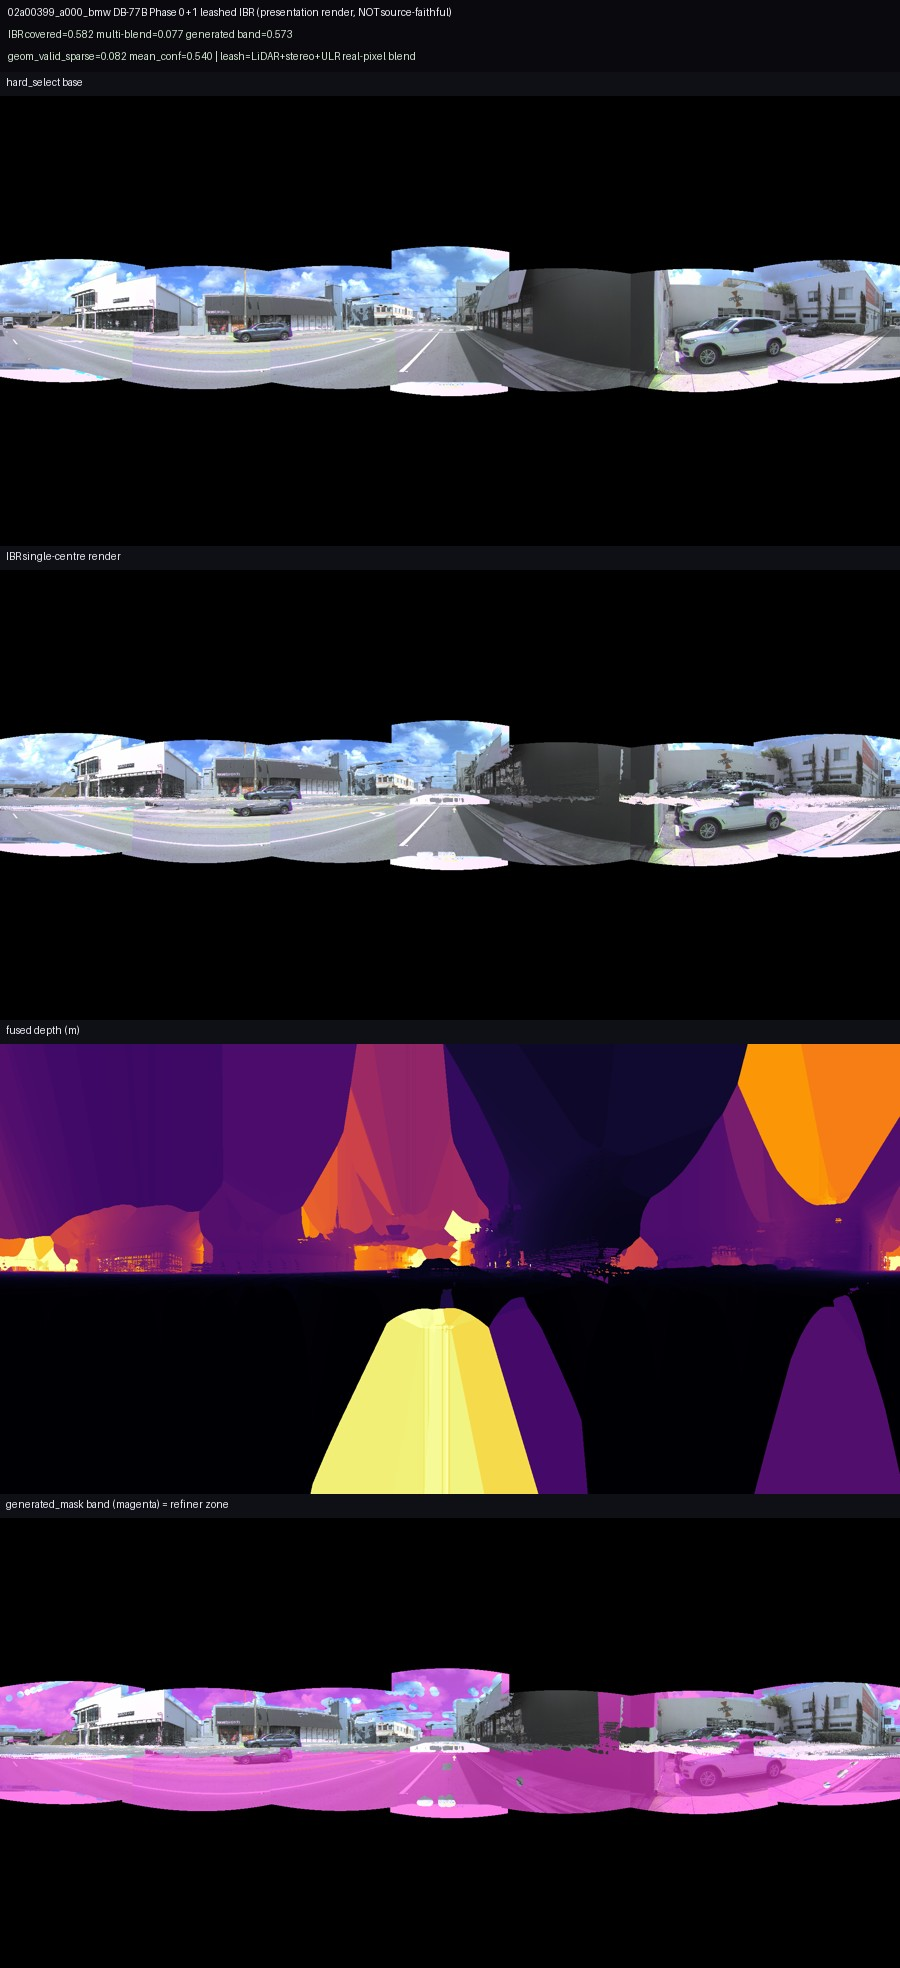
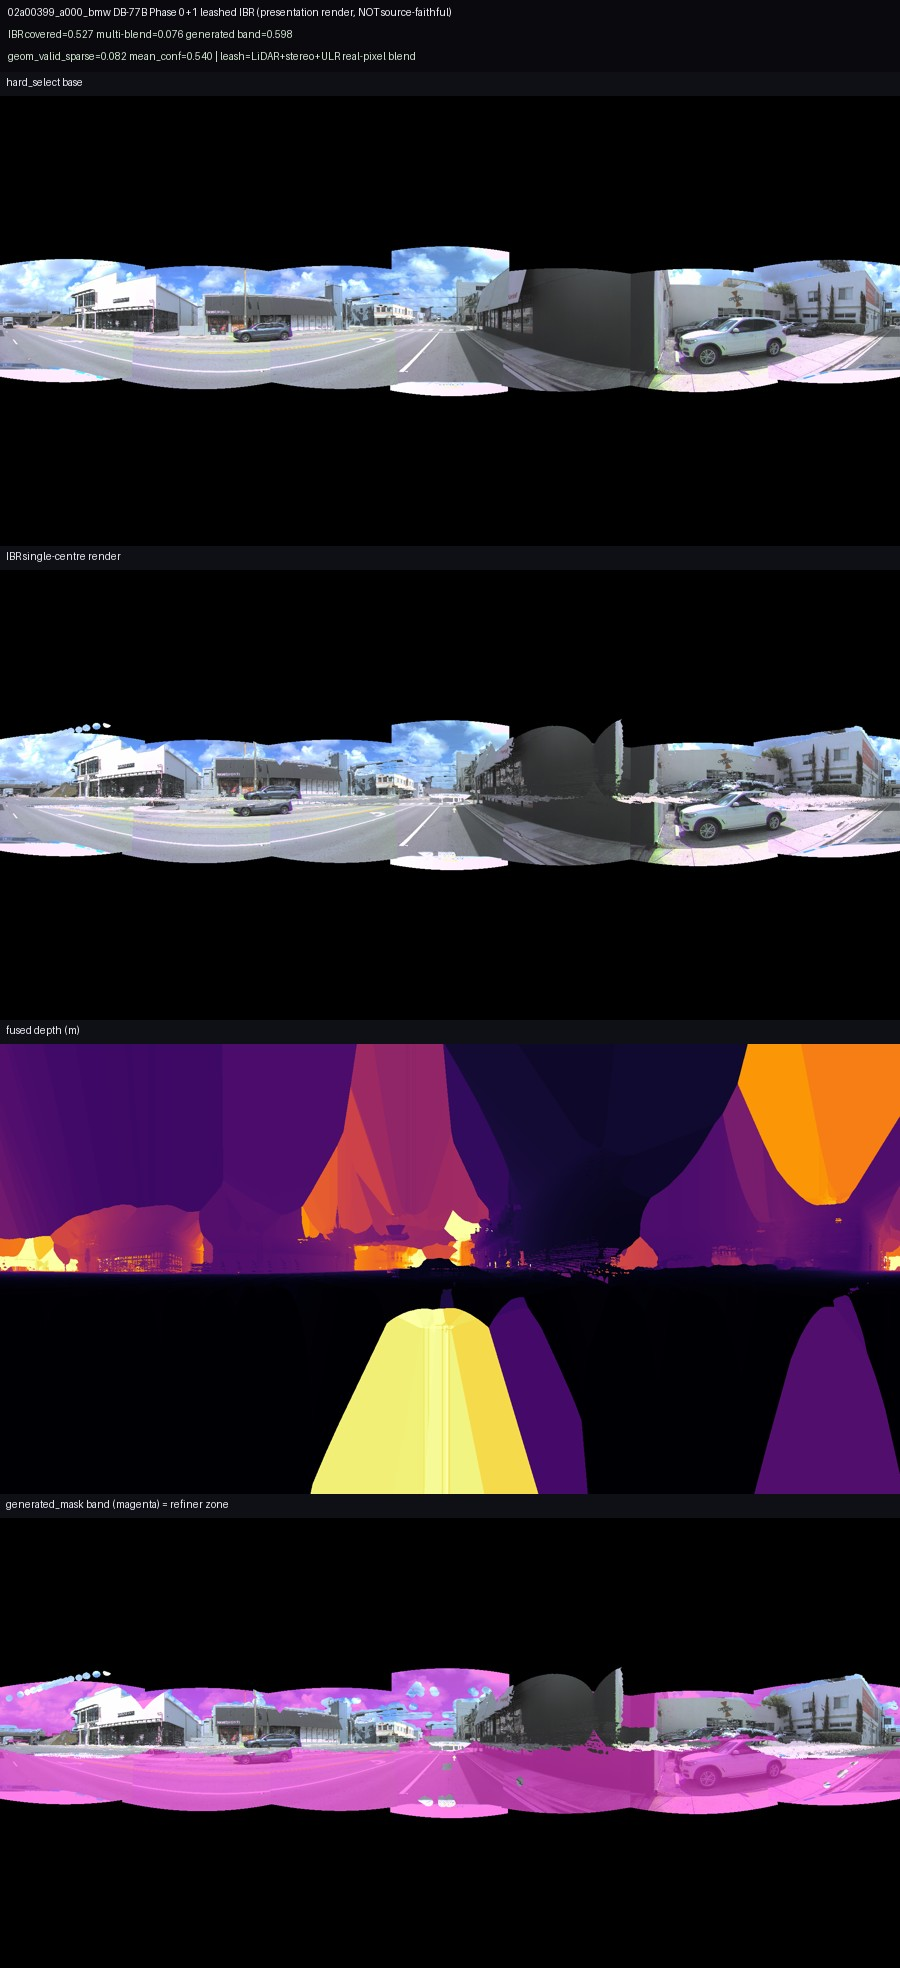
DB-77B A/B: bug-fixed IBR + honest hold-out densify-residual tear metric
A (fix invalid gate metric): re-derive tear attribution via hold-out LiDAR
densification residual (densify from half the LiDAR, |densified - true depth| on
the other half), NOT 4px ERP proximity.
B (3 renderer bugs): (1) per-camera z-buffer occlusion -> drop occluded cams;
(2) depth-correct ULR FOV-falloff weight (replace L1 infinite-radius cos2 feather);
(3) stereo k1-3 gated to avoid double-undistort.

Honest densify residual (real LiDAR vs densified): BMW p50=0.16m/p90=15.4m/
fixable<0.5m=57.7%; clean p50=0.62m/p90=12.8m/fixable=47%. ~half densifies right
(planar), tail (edges) catastrophic (p90 12-15m).

Vision (not sugar-coated): bug-fixed IBR tearing NOT materially reduced -- facades/
curb-tops still tear; only lower-center road clean. The 3 fixes are correct but
can't fix depth that's 15m wrong at edges. Renderer bugs were NOT the main cause.
Option-D (road-only IBR + facade hard_select) stays clean = deliverable floor.

Next per leader's cost line: C1 Difix3D+ zero-shot (A100, await leader eyeball) or
ship Option-D + abstain. CPU only this run, no A100, secret-scan 0.

diff --git a/scripts/phase3/db77b_leashed_renderer.py b/scripts/phase3/db77b_leashed_renderer.py
@@ -57,6 +57,8 @@ FETCH = {
     "bmw_board": ("02a00399_a000_bmw_p01_board.jpg", 70),
     "bmw_pD_board": ("02a00399_a000_bmw_pD_board.jpg", 70),
     "bmw_pD_attr": ("02a00399_a000_bmw_pD_tear_attribution.png", 30),
+    "bmw_pD_densify": ("02a00399_a000_bmw_pD_densify_residual_heat.png", 30),
+    "clean_pD_densify": ("0bae3b5e_a030_clean_far_pD_densify_residual_heat.png", 30),
     "bmw_pD_road": ("02a00399_a000_bmw_pD_road_only_ibr.png", 40),
     "clean_pD_board": ("0bae3b5e_a030_clean_far_pD_board.jpg", 70),
     "bmw_ibr": ("02a00399_a000_bmw_p01_ibr_rgb.png", 40),
@@ -231,7 +233,9 @@ def stereo_depth(log_dir, anchor_ts):
     def cal(n):
         ri = intr[intr.sensor_name == n].iloc[0]; re = extr[extr.sensor_name == n].iloc[0]
         K = np.array([[ri.fx_px, 0, ri.cx_px], [0, ri.fy_px, ri.cy_px], [0, 0, 1]], float)
-        dist = np.array([ri.get("k1", 0), ri.get("k2", 0), 0, 0, ri.get("k3", 0)], float)
+        _k = (float(ri.get("k1", 0)), float(ri.get("k2", 0)), float(ri.get("k3", 0)))
+        # B3: avoid double-undistort — AV2 imagery is delivered rectified; only pass distortion if k's are non-trivial
+        dist = np.array([_k[0], _k[1], 0, 0, _k[2]], float) if max(abs(v) for v in _k) > 0.01 else np.zeros(5, float)
         T = np.eye(4); T[:3, :3] = Rotation.from_quat([re.qx, re.qy, re.qz, re.qw]).as_matrix(); T[:3, 3] = [re.tx_m, re.ty_m, re.tz_m]
         return K, dist, T, int(ri.width_px), int(ri.height_px)
     KL, dL, TL, w, h = cal("stereo_front_left"); KR, dR, TR, _, _ = cal("stereo_front_right")
@@ -272,16 +276,32 @@ def fuse_and_densify(lidar_depth, stereo_depth_map):
 
 
 def ibr_render(Zd, dirs, frame, ring_cams, weights, base):
+    # bug-fixed IBR: (B1) per-camera z-buffer occlusion test — drop a camera for an ERP ray
+    # if a nearer surface occludes it in that camera; (B2) depth-correct ULR weight — FOV-center
+    # falloff on the actual depth-correct projection, NOT the L1 infinite-radius cos2 feather.
     import cv2
-    X = (Zd[..., None] * dirs).astype(np.float64)  # (H,W,3) ego
+    X = (Zd[..., None] * dirs).astype(np.float64)  # (H,W,3) ego surface point per ERP ray
     acc = np.zeros((H, W, 3), np.float32); wsum = np.zeros((H, W), np.float32); viscount = np.zeros((H, W), np.int32)
+    OCC_TOL = 0.5  # m: a ray is occluded if a surface >0.5m nearer projects to the same camera pixel
     for ci, cam in enumerate(ring_cams):
         cal = frame.calibrations[cam]; img = frame.images[cam].astype(np.float32); K = cal.K; Tci = np.linalg.inv(cal.T_ego_cam)
         Xc = np.einsum('ij,hwj->hwi', Tci[:3, :3], X) + Tci[:3, 3]; z = Xc[..., 2]
         px = K[0, 0] * (Xc[..., 0] / np.maximum(z, EPS)) + K[0, 2]; py = K[1, 1] * (Xc[..., 1] / np.maximum(z, EPS)) + K[1, 2]
-        hh, ww = img.shape[:2]; vis = (z > 0.1) & (px >= 0) & (px < ww - 1) & (py >= 0) & (py < hh - 1)
+        hh, ww = img.shape[:2]
+        inb = (z > 0.1) & (px >= 0) & (px < ww - 1) & (py >= 0) & (py < hh - 1)
+        yi = np.clip(py.astype(np.int64), 0, hh - 1); xi = np.clip(px.astype(np.int64), 0, ww - 1)
+        # B1: per-camera z-buffer — nearest surface per camera pixel; ERP ray occluded if it sits behind it
+        zbuf = np.full(hh * ww, np.inf, np.float32)
+        flat = (yi * ww + xi).reshape(-1); zf = z.reshape(-1).astype(np.float32); inf_ = inb.reshape(-1)
+        order = np.argsort(-zf)  # far first -> nearest overwrites on duplicate camera pixels
+        of = flat[order]; oz = zf[order]; oi = inf_[order]
+        zbuf[of[oi]] = oz[oi]
+        nearest = zbuf[(yi * ww + xi)]
+        vis = inb & (z <= nearest + OCC_TOL)
+        # B2: depth-correct ULR weight — radial FOV falloff from the principal point of the actual projection
+        rad = np.hypot((px - K[0, 2]) / (0.5 * ww), (py - K[1, 2]) / (0.5 * hh))
+        wv = (np.clip(1.0 - rad, 0.0, 1.0) ** 2 * vis).astype(np.float32)
         col = cv2.remap(img, px.astype(np.float32), py.astype(np.float32), cv2.INTER_LINEAR, borderMode=cv2.BORDER_CONSTANT)
-        wv = (weights[ci] * vis).astype(np.float32)
         acc += wv[..., None] * col; wsum += wv; viscount += vis.astype(np.int32)
     has = wsum > WMIN; ibr = base.astype(np.float32).copy()
     ibr[has] = (acc[has] / wsum[has][..., None])
@@ -320,22 +340,35 @@ def run_case(case_spec, run_name, workdir):
     highconf = has & (conf >= GEN_THR)
     ibr = np.where(highconf[..., None], ibr_raw, base).astype(np.uint8)
     gen = (~highconf) & valid_any     # generated_mask = IBR not trusted -> refiner zone (Phase 2)
-    # ---- Option-D baseline (road-only IBR + facade hard_select) + tear attribution (leader request) ----
-    Xh = (Zd * dirs[..., 2]).astype(np.float32)                      # ego height of each ray's surface point
+    # ---- Option-D baseline + HONEST tear attribution (A: hold-out LiDAR densification residual) ----
+    Xh = (Zd * dirs[..., 2]).astype(np.float32)
     road_mask = valid_any & has & (conf >= GEN_THR) & (Xh < 0.5)     # near-ground planar surface
     ibr_D = base.copy(); ibr_D[road_mask] = ibr_raw[road_mask]       # IBR only on road; facade/others = hard_select
     gb = 0.299 * base[..., 0] + 0.587 * base[..., 1] + 0.114 * base[..., 2]
     gi = 0.299 * ibr_raw[..., 0] + 0.587 * ibr_raw[..., 1] + 0.114 * ibr_raw[..., 2]
     tear = (np.abs(gi - gb) > 18) & valid_any & (~road_mask)         # IBR changed a non-road region = candidate tear
-    dist = -CONF_SCALE * np.log(np.clip(conf, 1e-6, 1.0))            # px distance to nearest real geometry
-    near_geom = dist < 4.0
-    tear_bad_densify = tear & near_geom                             # geometry EXISTS but densified depth wrong -> 3DGS/surfel-fixable
-    tear_no_geom = tear & (~near_geom)                              # NO geometry near -> needs B to feed geometry
-    attr = overlay(overlay(base, tear_no_geom, (40, 120, 255), 0.7), tear_bad_densify, (255, 40, 40), 0.7)
+    # A (fix the invalid gate metric): densify from HALF the LiDAR, measure |densified - true depth| on the OTHER half.
+    # This measures whether nearest-densification actually recovers the true surface depth — NOT 4px ERP proximity.
+    rfield = np.zeros((H, W), np.float32); densify_resid = {}
+    if len(lidar) > 2000:
+        ev = (np.arange(len(lidar)) % 2 == 0)
+        Zd_tr, _c2, _v2 = fuse_and_densify(scatter_depth(lidar[ev]), sd)
+        tu, tv, td = ego_to_uv(lidar[~ev]); mm = (td > 1.5) & (td < 80)
+        tui = np.clip(np.round(tu[mm]).astype(np.int64), 0, W - 1); tvi = np.clip(np.round(tv[mm]).astype(np.int64), 0, H - 1)
+        resid = np.abs(Zd_tr[tvi, tui] - td[mm].astype(np.float32))
+        densify_resid = {"p50_m": float(np.percentile(resid, 50)), "p90_m": float(np.percentile(resid, 90)),
+                         "fixable_share_lt0p5m": float((resid < 0.5).mean()), "n_test": int(resid.size)}
+        fl = tvi * W + tui; acc_r = np.zeros(H * W, np.float32); cnt_r = np.zeros(H * W, np.float32)
+        np.add.at(acc_r, fl, resid); np.add.at(cnt_r, fl, 1.0); rfield = (acc_r / np.maximum(cnt_r, 1)).reshape(H, W)
+    has_resid = rfield > 0
+    tear_unfixable = tear & (rfield > 0.5)                          # densify residual LARGE -> nearest-densify can't hold the surface (denser geom / abstain)
+    tear_fixable = tear & has_resid & (rfield <= 0.5)              # densify residual SMALL -> a better densifier/renderer can fix it
+    attr = overlay(overlay(base, tear_fixable, (40, 220, 90), 0.7), tear_unfixable, (255, 40, 40), 0.7)
     geomcov = overlay(base, cv2.dilate(geomvalid.astype(np.uint8), np.ones((3, 3), np.uint8)) > 0, (40, 255, 120), 0.6)
     save_rgb(REMOTE_OUT / f"{run_name}_pD_road_only_ibr.png", ibr_D)
     save_rgb(REMOTE_OUT / f"{run_name}_pD_tear_attribution.png", attr)
     save_rgb(REMOTE_OUT / f"{run_name}_pD_geom_coverage.png", geomcov)
+    save_rgb(REMOTE_OUT / f"{run_name}_pD_densify_residual_heat.png", heat(rfield, has_resid))
     # metrics
     co = (viscount >= 2) & valid_any
     metrics = {
@@ -347,8 +380,9 @@ def run_case(case_spec, run_name, workdir):
         "mean_confidence_in_band": float(conf[valid_any].mean()),
         "road_only_ibr_frac_of_band": float(road_mask.sum() / max(valid_any.sum(), 1)),
         "tear_frac_of_band": float(tear.sum() / max(valid_any.sum(), 1)),
-        "tear_bad_densify_share": float(tear_bad_densify.sum() / max(tear.sum(), 1)),
-        "tear_no_geom_share": float(tear_no_geom.sum() / max(tear.sum(), 1)),
+        "densify_residual_m": densify_resid,
+        "tear_fixable_share": float(tear_fixable.sum() / max(tear.sum(), 1)),
+        "tear_unfixable_share": float(tear_unfixable.sum() / max(tear.sum(), 1)),
     }
     save_rgb(REMOTE_OUT / f"{run_name}_p01_ibr_rgb.png", ibr)
     save_rgb(REMOTE_OUT / f"{run_name}_p01_depth_heat.png", heat(Zd, valid_any))
@@ -381,7 +415,7 @@ def run_case(case_spec, run_name, workdir):
     for o in ims: board.paste(o, (0, yo)); yo += o.height
     board.save(REMOTE_OUT / f"{run_name}_p01_board.jpg", quality=90)
     tilesD = [("hard_select base", base), ("OPTION-D: road-only IBR + facade hard_select", ibr_D),
-              ("tear: RED=geometry-exists(densify-fixable) BLUE=no-geometry(needs B)", attr),
+              ("tear: GREEN=densify-fixable(resid<0.5m) RED=unfixable(resid>0.5m)", attr),
               ("real LiDAR/stereo geometry coverage (green)", geomcov)]
     imsD = []
     for t, a in tilesD:
@@ -389,7 +423,7 @@ def run_case(case_spec, run_name, workdir):
         bar = Image.new("RGB", (900, 24), (15, 15, 22)); ImageDraw.Draw(bar).text((6, 4), t, (235, 235, 245), font=f)
         o = Image.new("RGB", (900, 474)); o.paste(bar, (0, 0)); o.paste(im, (0, 24)); imsD.append(o)
     boardD = Image.new("RGB", (900, 474 * 4 + 50), (10, 10, 14)); dd = ImageDraw.Draw(boardD)
-    dd.text((8, 6), f"{run_name} DB-77B Option-D + tear attribution  tear={metrics['tear_frac_of_band']:.3f} bad_densify_share={metrics['tear_bad_densify_share']:.2f} no_geom_share={metrics['tear_no_geom_share']:.2f}", (240, 240, 250), font=f)
+    dd.text((8, 6), f"{run_name} DB-77B bug-fixed IBR + honest tear  tear={metrics['tear_frac_of_band']:.3f} densify_resid_p50={(metrics.get('densify_residual_m') or {}).get('p50_m')} fixable_share={metrics['tear_fixable_share']:.2f}", (240, 240, 250), font=f)
     yo = 50
     for o in imsD: boardD.paste(o, (0, yo)); yo += o.height
     boardD.save(REMOTE_OUT / f"{run_name}_pD_board.jpg", quality=90)

diff --git a/agent/progress.md b/agent/progress.md
@@ -1,5 +1,15 @@
 # Waymo2Panorama Progress
 
+> ### 2026-06-06 (DB-77B A/B done on CPU — bug-fixed IBR + honest tear metric; tearing NOT fixed by the 3 bugs, root cause = densify depth wrong at edges p90 15m; Option-D floor clean)
+> **What ran:** `db77b --phase01` on CPU Colab (secret-scan 0). **A (fix the invalid gate metric):** tear attribution re-derived via **hold-out LiDAR densification residual** (densify from half the LiDAR, measure |densified − true depth| on the other half) — NOT 4px ERP proximity. **B (3 renderer bugs):** ① per-camera z-buffer occlusion (drop occluded cams wv=0); ② depth-correct ULR FOV-falloff weight (replaced the L1 infinite-radius cos² feather); ③ stereo k1-3 gated to avoid double-undistort.
+> **Honest densify residual (real LiDAR vs densified):** BMW p50=0.16m / **p90=15.4m** / fixable(<0.5m)=57.7%; clean p50=0.62m / **p90=12.8m** / fixable=47%. → ~half the surface densifies correctly (planar), but the TAIL (structure edges) is catastrophic (p90 12-15m). This is the real "is it fixable" answer the 0.65 4px-metric hid.
+> **Vision (BMW ROI sheet + pD board, not sugar-coated):** bug-fixed IBR tearing is **NOT materially reduced** — building facades / curb-tops still tear (left/center/right ROIs); only lower-center road is clean. The 3 bug fixes are correct (less occlusion ghosting) but **cannot fix depth that is itself 15m wrong at edges.** Tear attribution shows most tear pixels GREEN (local resid<0.5m, measured only where hold-out LiDAR points exist) but the actual tears sit at edges/between points (the p90 tail) → the green is optimistic.
+> **Option-D baseline** (road-only IBR + facade hard_select) stays clean / no-tear = **deliverable floor**.
+> **Conclusion:** hand-built IBR, even bug-fixed, tears at facade/edge because sparse-LiDAR nearest-densification gives ~15m-wrong depth there; **renderer bugs were NOT the main cause** (leader's hypothesis tested, comes back mostly negative). → escalate per leader's cost line to **C1 (Difix3D+ zero-shot refine, A100)** on bug-fixed-IBR / hard_select, OR ship Option-D floor + abstain.
+> **Deliverables:** `deliverables/db77b_leashed_renderer/` (bug-fixed IBR boards/roi + pD board + densify_residual_heat + honest tear attribution). secret-scan 0.
+> **Status:** A/B DONE (CPU, no A100). Boards synced for leader eyeball. **Await leader:** after eyeballing the bug-fixed IBR (not materially better), release A100 for C1 Difix, or accept Option-D + abstain on the no-geometry/edge band.
+> ---
+
 > ### 2026-06-06 (Agent reality-check of the StreetCrafter course-correction — premise doesn't hold on AV2; 3 C-routes kept open; A/B uncontested)
 > Agent **ACCEPTS** the 3 mid-term critiques: tear metric = 4px ERP proximity ≠ depth-fixability (0.65 was invalid as an A100 gate); full-IBR seam-close was over-stated (tears curb / ghosts lane / softer than hard_select); generated band 0.48-0.57 violates the LOCK (naked generation). **Repo-verified the course-correction's premise:** StreetCrafter ([zju3dv/street_crafter](https://github.com/zju3dv/street_crafter)) needs **per-scene training (not zero-shot), is Waymo-only (AV2 needs an adapter), needs 80GB A100 (we have 40GB), renders perspective (not ERP), needs Vista weights** → "zero-shot ~1h AV2 ERP" does NOT hold. **Difix3D+** ([nv-tlabs/Difix3D](https://github.com/nv-tlabs/Difix3D), HF `nvidia/difix`) IS genuinely zero-shot single-step (refine one rendered image) = the real ~1h option, but perspective-artifact-designed (seam/ERP fix to be tested).
 > **User (2026-06-06): keep all 3 C-routes open as the discussion result; user relaying agent's judgement to leader.** C1 Difix zero-shot refine (real ~1h, 40GB likely OK) / C2 StreetCrafter Waymo per-scene (80GB + hours, not the AV2 pain) / C3 Framing-B self-supervised thin-seam inpainter + abstain.
